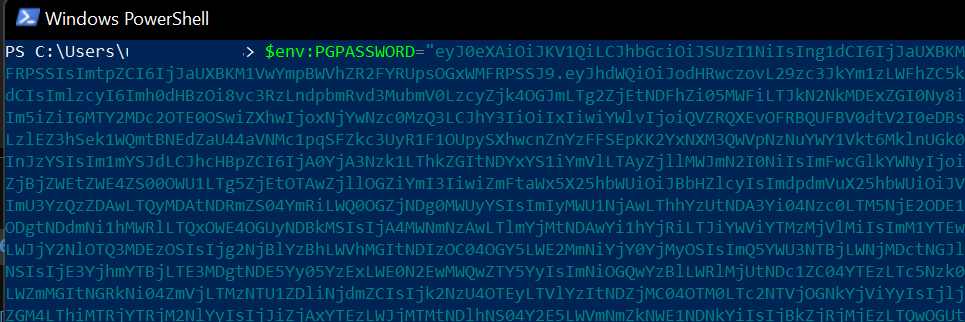
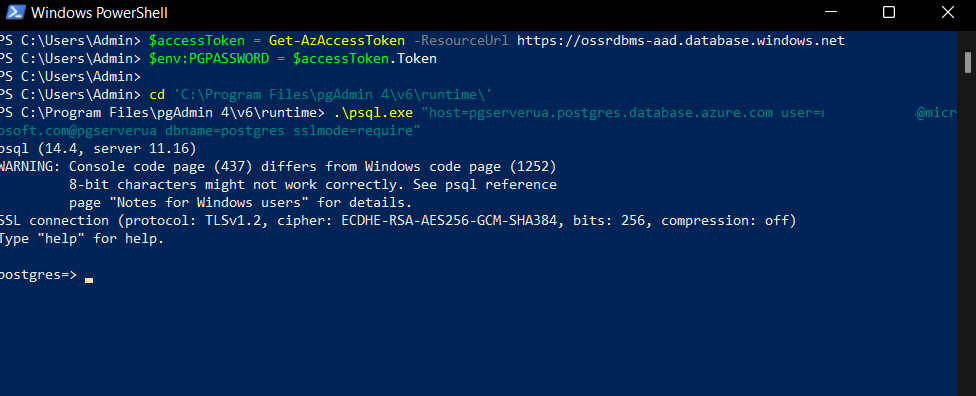
updated ex. 4

Changed region(s): [[0.0, 0.0, 1.0, 1.0]]

diff --git a/Azure Database for PostgreSQL Single Server/07 Managing database users in Azure Database for PostgreSQL Single Server/readme.md b/Azure Database for PostgreSQL Single Server/07 Managing database users in Azure Database for PostgreSQL Single Server/readme.md
@@ -15,7 +15,7 @@ After completing this lab, you will be able to:
 
 This lab considers that an Azure Database for PostgreSQL Single Server named pgserver[your name initials] exists with a server admin login named *admpg*, if not, create it or use another existing server before continuing with the lab.
 
-**Estimated Time:** 35 minutes
+**Estimated Time:** 1 hour 35 minutes
 
 ---
 
@@ -238,13 +238,91 @@ This exercise shows how to configure Azure Active Directory access with Azure Da
     
    ![](Media/image0201.png)
     
-   Select the subscription where your Azure Database for PostgreSQL Single Server lives by executing:
+   Acquire an access token for the Azure AD authenticated user to access Azure Database for PostgreSQL by executing:
 
    ```bash
-   az account set --subscription <name or id>
+   az account get-access-token --resource https://ossrdbms-aad.database.windows.net
+   ```
+
+   ![](Media/image0203.png)
+    
+   Use token as password for logging in with PostgreSQL using psql by executing:
+
+   ```bash
+   $accessToken = Get-AzAccessToken -ResourceUrl https://ossrdbms-aad.database.windows.net
+   $env:PGPASSWORD = $accessToken.Token
+
+   .\psql.exe "host=pgserver<your name initials>.postgres.database.azure.com user=<user@domain>@pgserver<your name initials> dbname=postgres sslmode=require"    
+   ```
+
+   >When using the psql command line client, the access token needs to be passed through the PGPASSWORD environment variable, since the access token exceeds the password length that psql can accept directly
+
+   ![](Media/image0204.png)
+
+   Get a list of databases just to validate you have successfully logged in using the Azure Active Directory admin by executing:
+
+   ```nocolor
+   \l
+   ``` 
+
+   ![](Media/image0205.png)
+
+
+   You have successfully set an Azure Active Directory admin and logged to the Azure Database for PostgreSQL Single Server with it.
+
+Congratulations!. You have successfully completed this exercise.
+
+---
+
+## Exercise 4: setting and connecting with  Azure AD regular users in Azure Database for PostgreSQL
+
+This exercise shows how to configure Azure Active Directory access with Azure Database for PostgreSQL, and how to connect using an Azure AD token
+
+> For this exercise you will need to use your user as the Administrator for the datbase server and another user in Azure Active Directory to log into the database, if you cannot add another user into your Azure Active Directory you may add a colleague to help you test, in that case you may need to also add yours colleague IP address into the PostgreSQL sever firewall [https://docs.microsoft.com/en-us/azure/postgresql/single-server/concepts-firewall-rules](https://docs.microsoft.com/en-us/azure/postgresql/single-server/concepts-firewall-rules)
+
+**Tasks**
+
+1. Connect to Microsoft Azure Portal
+    
+   Open Microsoft Edge and navigate to the [Azure Portal](http://ms.portal.azure.com) to connect to Microsoft Azure Portal. Login with your subscriptions credential.
+
+1. Go to your PostgreSQL Server
+
+   Go to your Azure Database for PostgreSQL Single Server in any way you prefer to look for a resource on Azure
+
+1. Set the Azure Active Directory admin user
+    
+   Under the **Settings** section in the sidebar, select **Active Directory admin**
+    
+   Click on **Set Admin**
+    
+   ![](Media/image0124.png)
+    
+   Look for the user you want to add. For this lab, look for the user you are logged in with. Click **Select**
+    
+   ![](Media/image0125.png)
+    
+   You will see the selected user as the Active Directory Admin. Click on **Save**
+    
+   ![](Media/image0126.png)
+
+   >Only one Azure AD admin can be created per PostgreSQL single server and selection of another one will overwrite the existing Azure AD admin configured for the server. You can specify an Azure AD group instead of an individual user to have multiple administrators. Note that you will then sign in with the group name for administration purpose
+
+1. Install Azure CLI
+
+   If you have not done it yet. Isntall Azure CLI following the instrcutions at [How to install the Azure CLI](https://docs.microsoft.com/en-us/cli/azure/install-azure-cli) 
+
+1. Connect Azure Database for PostgreSQL Single Server using Azure Active Directory
+    
+   Open the **Windows Powershell**
+    
+   Invoke the Azure CLI tool to authenticate with Azure AD. It requires you to give your Azure AD user ID (the one you set as Azure Active Directory admin in the previous step) and the password:
+    
+   ```bash
+   az login
    ```
     
-   ![](Media/image0202.png)
+   ![](Media/image0201.png)
     
    Acquire an access token for the Azure AD authenticated user to access Azure Database for PostgreSQL by executing:
 
@@ -257,46 +335,35 @@ This exercise shows how to configure Azure Active Directory access with Azure Da
    Use token as password for logging in with PostgreSQL using psql by executing:
 
    ```bash
-   $env:PGPASSWORD='<copy/pasted TOKEN value from az account get-access-token command>'
+   $accessToken = Get-AzAccessToken -ResourceUrl https://ossrdbms-aad.database.windows.net
+   $env:PGPASSWORD = $accessToken.Token
 
-   .\\psql.exe "host=pgserver<your name initials>.postgres.database.azure.com user=<user@domain>@pgserver<your name initials> dbname=postgres sslmode=require"    
+   .\psql.exe "host=pgserver<your name initials>.postgres.database.azure.com user=<user@domain>@pgserver<your name initials> dbname=postgres sslmode=require"    
    ```
 
    >When using the psql command line client, the access token needs to be passed through the PGPASSWORD environment variable, since the access token exceeds the password length that psql can accept directly
 
    ![](Media/image0204.png)
 
-   Get a list of databases just to validate you have successfully logged in using the Azure Active Directory admin by executing:
+1. Add the second user (the new user you created in AAD or your colleague user) executing the following command:
 
-   ```nocolor
-   \\l
-   ``` 
+   ```SQL
+   CREATE ROLE "user1@yourtenant.onmicrosoft.com" WITH LOGIN IN ROLE azure_ad_user;
+   ```
 
-   ![](Media/image0205.png)
+   ![](Media/image0214.png)
 
+1. Connect to **psql** with the user you just added in the previous step
 
-   You have successfully set an Azure Active Directory admin and logged to the Azure Database for PostgreSQL Single Server with it.
+   ```bash
+   az logout
+   az login
+   az account get-access-token --resource https://ossrdbms-aad.database.windows.net
+   $accessToken = Get-AzAccessToken -ResourceUrl https://ossrdbms-aad.database.windows.net
+   $env:PGPASSWORD = $accessToken.Token
+   .\psql.exe "host=pgserver<your name initials>.postgres.database.azure.com user=<user@domain>@pgserver<your name initials> dbname=postgres sslmode=require"    
+   ```
 
-Congratulations!. You have successfully completed this exercise.
-
----
-
-## Exercise 4: setting and connecting with  Azure AD users in Azure Database for PostgreSQL
-
-This exercise shows how to configure Azure Active Directory access with Azure Database for PostgreSQL, and how to connect using an Azure AD token
-
-**Tasks**
-
-1. Connect to Microsoft Azure Portal
-    
-   Open Microsoft Edge and navigate to the [Azure Portal](http://ms.portal.azure.com) to connect to Microsoft Azure Portal. Login with your subscriptions credential.
-
-1. Go to your PostgreSQL Server
-
-   Go to your Azure Database for PostgreSQL Single Server in any way you prefer to look for a resource on Azure
-
-*****************
-guide: -> https://docs.microsoft.com/en-us/azure/postgresql/single-server/how-to-configure-sign-in-azure-ad-authentication#creating-azure-ad-users-in-azure-database-for-postgresql
-***************
+   ![](Media/image0215.png)
 
 Congratulations! You have successfully completed this exercise and the Lab. 
